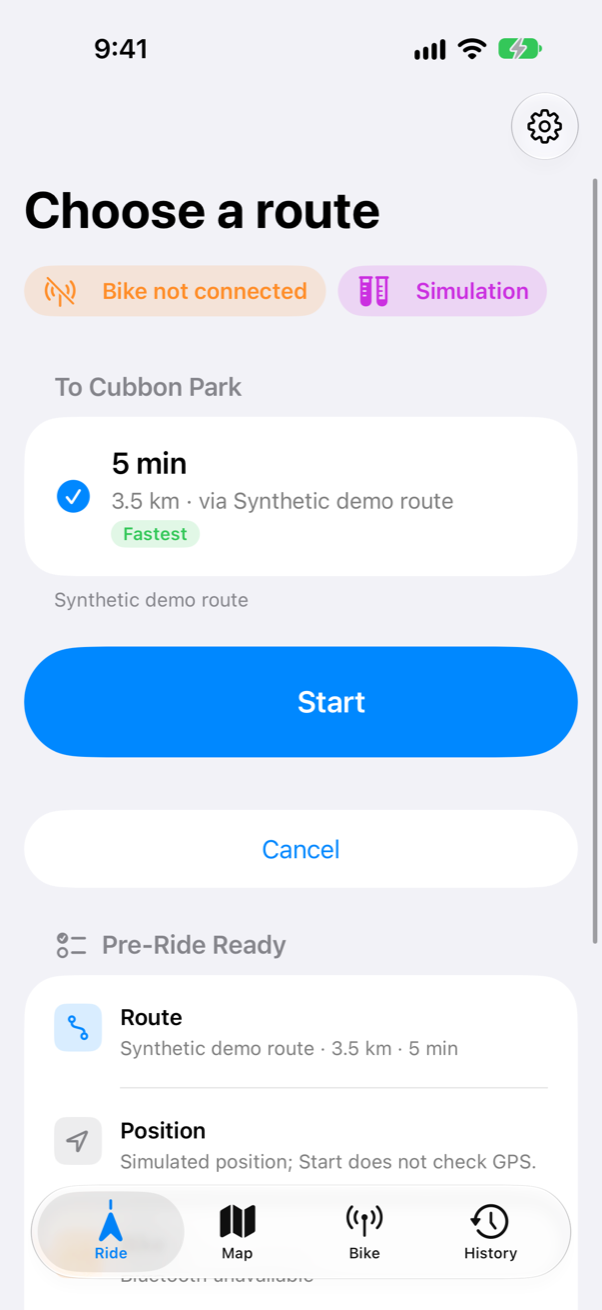
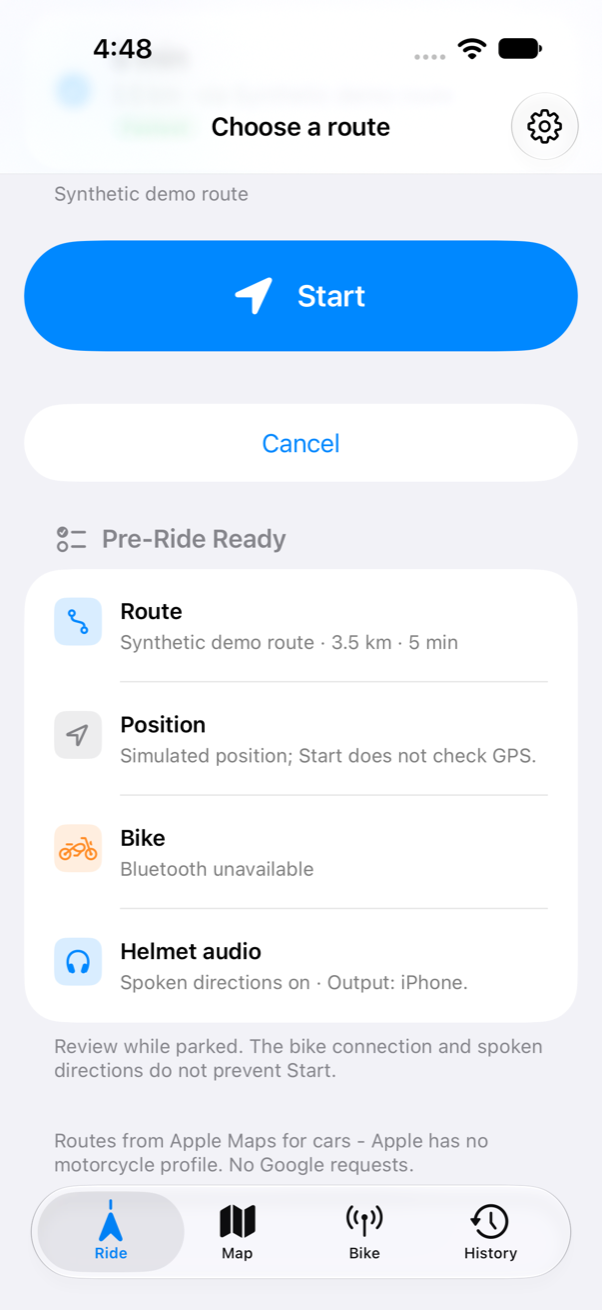
Document ride planning features and validation limits

diff --git a/README.md b/README.md
@@ -52,9 +52,11 @@ ClusterNav is not affiliated with or endorsed by Bajaj Auto or Apple.
 | **Route choice** | Up to three Apple Maps alternatives from one request, selectable in a list or by tapping the line on the map, with avoid-tolls and avoid-highways options. |
 | **Spoken directions** | Detailed or concise prompts through the helmet, earphones or speaker, with repeat, and a hold when a headset disconnects. |
 | **Destinations from anywhere** | Search, Home and Work shortcuts, favourites and recents, a map long-press, coordinates or plus codes, pasted map links, the share extension, and Siri previews for Home and Work. |
-| **One stop on the way** | Leg one ends at the stop; continuing calculates a fresh route from where the rider is. |
+| **One stop on the way** | Leg one ends at the stop; continuing calculates a fresh route from where the rider is. Fuel and rest stops along the route can be suggested, ranked by the minutes they add. |
+| **Parked route rehearsal** | Step through every turn of the planned route before leaving and hear each cue through the selected headset. |
+| **Ride plans** | Save a destination, its stop and the toll and highway choices together; the route is calculated fresh each time. |
 | **Live Activity** | The current turn on the Lock Screen and Dynamic Island on supported devices. |
-| **Private by default** | Ride history, GPS recaps with GPX export, and ride recovery are each opt-in, stored on the phone only, and excluded from backups. |
+| **Private by default** | Ride history, GPS recaps with GPX export, and ride recovery are each opt-in, stored on the phone only, and excluded from backups. A GPX export can leave out everything within 500 m of the start and end, with a preview of what will be shared. |
 | **Parked bench tools** | A simulation mode, a step-by-step bike compatibility check, a manual checklist and a Bluetooth console for inspecting what the cluster actually does. |
 
 ## How it works
@@ -112,8 +114,11 @@ The [setup guide](docs/setup.md) covers Xcode first-launch setup, Developer Mode
 - **Pre-Ride Ready.** While parked, check **Route**, **Position**, **Bike** and **Helmet audio** in the route preview. **Start** checks your current position in live mode. Bike connection and spoken directions do not block starting.
 - **Route alternatives.** In a live preview, tap **See routes on the map**. Tap a route line or its time-and-distance label to select it, then return to **Ride** and tap **Start**.
 - **Siri Home or Work preview.** Save **Home** or **Work** under **Ride settings → Places**, then try "Preview my route home in ClusterNav". Siri opens the app for a preview; tap **Start** separately. Siri invocation has not been validated on a physical iPhone.
+- **Rehearse the route.** In the route preview, open **Rehearse this route** to step through each turn and tap **Hear it**. The cue plays on the audio output in use, so it also checks the headset.
+- **Stops on the way.** In a live preview with no stop yet, open **Fuel or a rest stop on the way**. Places come from Apple Maps, listed with the least added time first; picking one plans the ride again, to the stop first. Not yet tried against live Apple Maps results.
+- **Ride plans.** In the route preview, tap **Save as a ride plan**. Plans appear on the Ride tab; using one sets Avoid tolls and Avoid highways to the plan's choices and asks for a fresh route.
 - **History.** Turn on **Keep ride history** in the History tab to keep the date, ride time and an estimated distance of each ride for 30 days. No positions are stored.
-- **GPS Recaps.** Open **History → GPS Recaps** and turn on **Record GPS tracks** before starting a new ride. It is off by default, separate from ride history, and never backfills earlier rides. A recap shows only the GPS fixes the app accepted; gaps are left unconnected. Open a recap to **Export GPX** or delete it. An export contains precise coordinates, timestamps and GPS accuracy, and deleting the recap does not remove exported copies.
+- **GPS Recaps.** Open **History → GPS Recaps** and turn on **Record GPS tracks** before starting a new ride. It is off by default, separate from ride history, and never backfills earlier rides. A recap shows only the GPS fixes the app accepted; gaps are left unconnected. Open a recap to **Export GPX** or delete it. The export screen shows exactly what will be shared and, by default, hides every point within 500 m of where the recording started and ended. An export contains precise coordinates, timestamps and GPS accuracy, and deleting the recap does not remove exported copies.
 
 ## Project layout
 
@@ -137,13 +142,15 @@ The project builds with Swift 6 and complete strict-concurrency checking. RideCo
 ```sh
 scripts/test.sh core   # RideCore package tests; works with Command Line Tools alone
 scripts/test.sh app    # app unit tests and UI tests on an iPhone simulator
+scripts/test.sh smoke  # one short simulator flow; reports a runner failure separately from an app failure
 scripts/test.sh all
 ```
 
 | Suite | Covers |
 | --- | --- |
-| RideCore (170 tests) | Frame encoding against golden vectors from the upstream protocol, write scheduling, route matching, rerouting, roundabouts, ride health, and deterministic replays of route fixtures. |
-| App unit tests (140 tests) | The app model on virtual time: route transactions, stops, recovery, history, GPS recaps, voice, and the Apple provider adapter with scripted locations and directions. |
+| RideCore (179 tests) | Frame encoding against golden vectors from the upstream protocol, write scheduling, route matching, rerouting, roundabouts, ride health, and deterministic replays of route fixtures. |
+| App unit tests (154 tests) | The app model on virtual time: route transactions, stops, recovery, history, GPS recaps, voice, and the Apple provider adapter with scripted locations and directions. |
+| Smoke test | One independent flow: enter a destination, check the pin, start a simulated ride, see a turn, end the ride. |
 | UI tests | Destination entry, confirmation, start and stop in simulation mode, settings, the bench tools and the Pre-Ride Ready panel. |
 
 Neither suite validates road safety or physical-cluster compatibility. Three UI tests that tap a switch fail intermittently in the simulator.

diff --git a/docs/support-matrix.md b/docs/support-matrix.md
@@ -33,7 +33,7 @@ Kept as recorded at the time. Where the parked bench above differs, the bench is
 
 Unit tests, simulator runs, and route replays do not establish real-device background reliability or road safety.
 
-Latest test run (2026-11-21): 170 core tests and 140 app unit tests passed. All 18 simulator UI tests passed, two of them (`testCustomStatusControlsEnableWithToggle`, `testSaveUseAndDeleteFavourite`) only on a rerun after a switch tap did not register; the live Apple route test was skipped.
+Latest test run (2026-11-21): 179 core tests and 154 app unit tests passed, and the simulator smoke flow passed. The UI results that follow are from before the latest features and were not rerun. All 18 simulator UI tests passed, two of them (`testCustomStatusControlsEnableWithToggle`, `testSaveUseAndDeleteFavourite`) only on a rerun after a switch tap did not register; the live Apple route test was skipped.
 
 | Area | Status | Evidence |
 | --- | --- | --- |
@@ -83,3 +83,12 @@ Latest test run (2026-11-21): 170 core tests and 140 app unit tests passed. All 
 | Energy saving / scheduling | Work is scheduled at real deadlines instead of every 200 ms (no wakes when idle); Energy saving reduces Lock Screen updates and map animation only. **No battery measurement yet** | RouteTransactionTests.idleAppSchedulesNoWakes |
 | Roundabout exits (rework 2026-11-14) | Owner ride: exits announced as "slight left" for straight and left exits, and "Now" heard while already on large circles. Cause: Apple's roundabout step ends where the route leaves the ring, so the app measured along the ring. Now the ring is found in the route line, the exit angle is the heading change from the road in to the road out, Apple's "continue"/"turn left/right" wording wins, the exit number is spoken, and the countdown ends at the ring entry. Checked against 19 real Apple Maps roundabouts (Delhi, Chandigarh) and synthetic rings. **Not yet ridden** | RoundaboutTests |
 | Voice cut off mid-instruction | Owner ride. Cause: turn prompts expired 5 s after the fix they were planned from (prompts take 2.5-7.4 s). Now a started prompt finishes unless GPS is lost, the route changes, a hold starts, the ride ends, or the next maneuver's prompt is ready (which replaces it) | VoiceCutoffTests |
+| Destination import | A link is read only for the destination it states. Directions links use the stated destination (never the origin, a waypoint or the map centre) and are rejected when it is a name the app can't place; a search link's centre is not a place; a mistyped coordinate such as `112.9716, 77.5946` is rejected, not shortened | MapLinkTests |
+| Final spoken cue | A turn cue that couldn't start (audio unavailable) or was cut by an interruption is spoken again when audio returns, worded for the current distance, if it is still the next maneuver. **Not heard on a device** | VoiceCutoffTests |
+| Completed ride after a failed final write | The ride's ending is kept separately, so a relaunch shows it as completed with the last saved totals, not interrupted | ReviewRegressionTests |
+| Roundabouts with wording the app can't read | With another phone language, a ring in the route line is recognised from its shape and its exit direction measured, where every exit used to become "turn left". A rounded corner is not treated as a ring. Synthetic rings only; **no real non-English route checked** | BoundaryReplayTests |
+| Parked route rehearsal | Lists every maneuver of the previewed route with the cue the rider will hear and plays it on the selected output. Seen in the simulator with the synthetic route; **live routes and headset audio untested** | BoundaryReplayTests, AppleProviderAdapterTests |
+| Fuel and rest stops along the route | Searches Apple Maps around up to four points inside the route, keeps the five places nearest the line (within 1.5 km) and ranks them by added travel time from Apple's estimates; choosing one plans the ride again through it. Model and ranking tested with a scripted finder; **the Apple Maps search, the estimates and the screen have not been run live** | StopSuggestionTests, BoundaryReplayTests |
+| Privacy-preserving GPX export | Optional (on by default): leaves out every point within 500 m of where the recording started and ended, with a map and point count of what will be shared. **Export screen not seen with a real recap** | RideTrackTests |
+| Ride plans | Destination, optional stop and toll/highway choices saved together (20 plans); using one sets those route choices and requests a fresh route. Seen in the simulator | RidePlanTests |
+| Release gate | Eight parked checks on a real N250 (GPS stale, Bluetooth drop, phone lock, ride end; each recorded once for what the app reports and once for what the display shows) head the manual checklist and its report. **0/8 recorded** | ManualChecklistTests |
